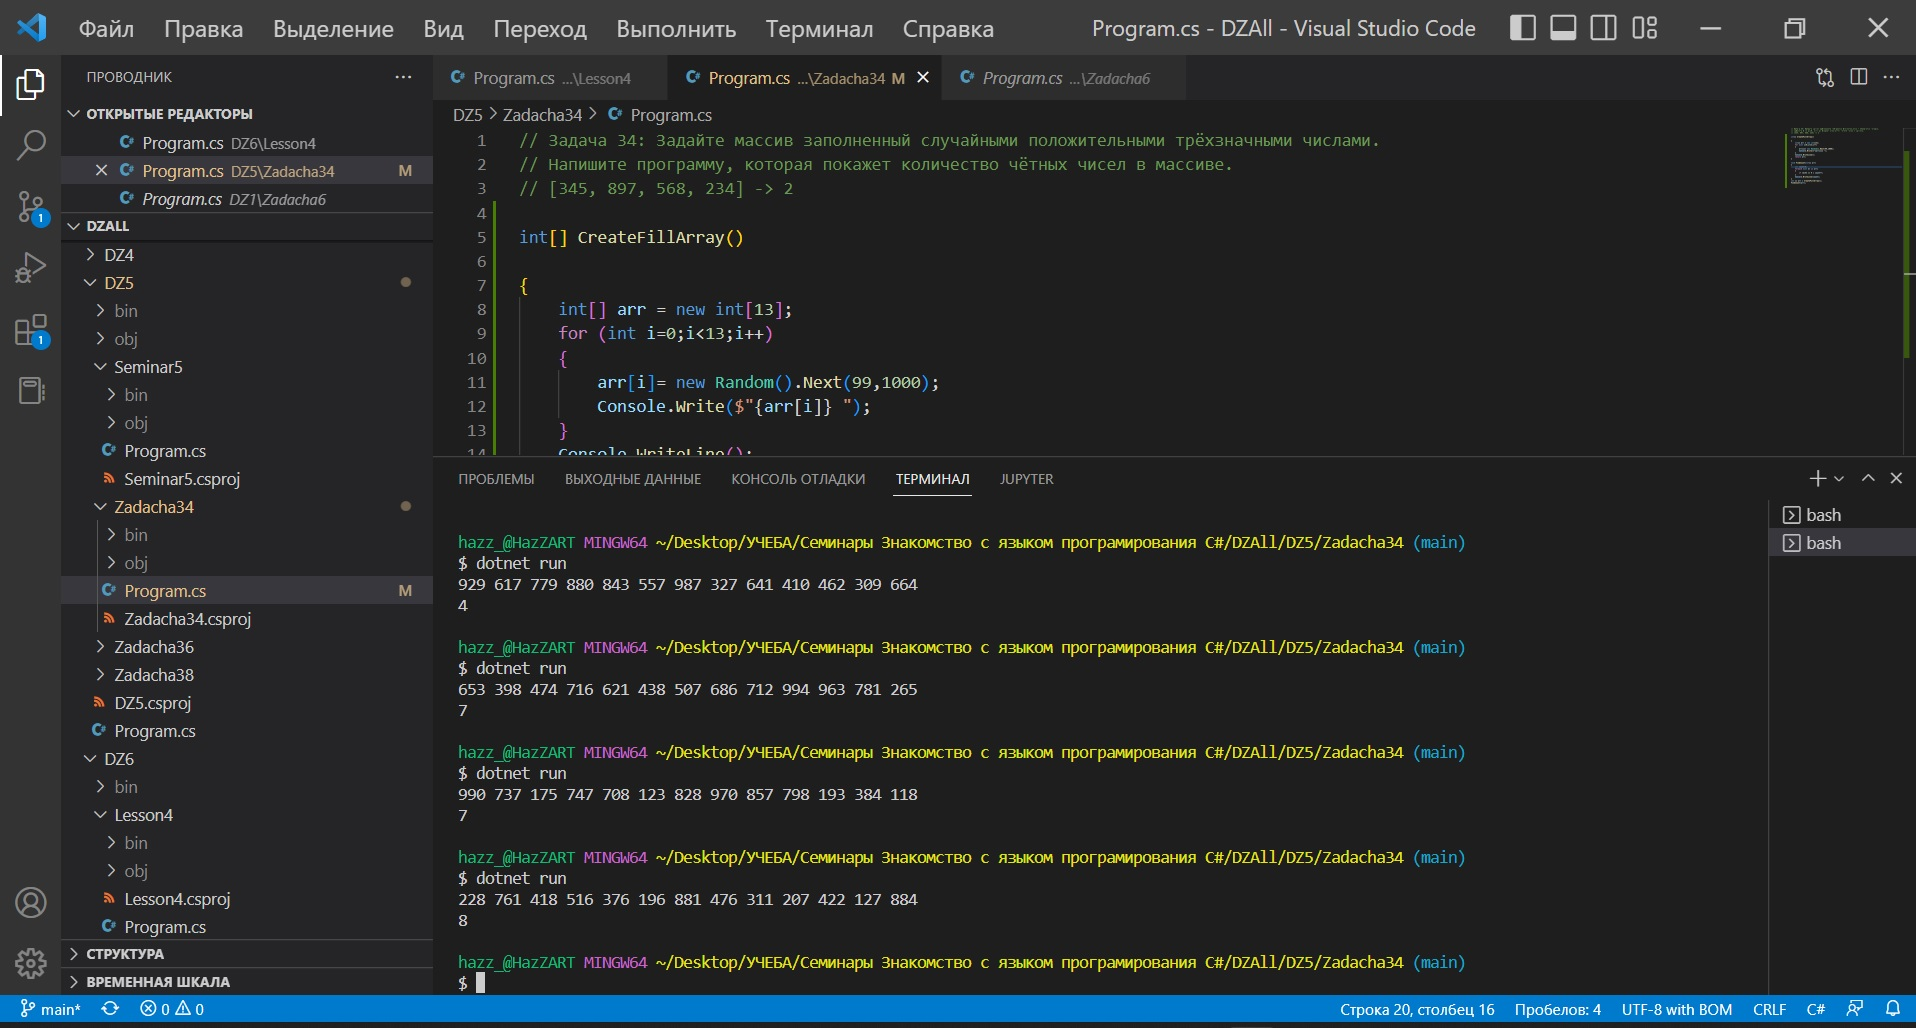
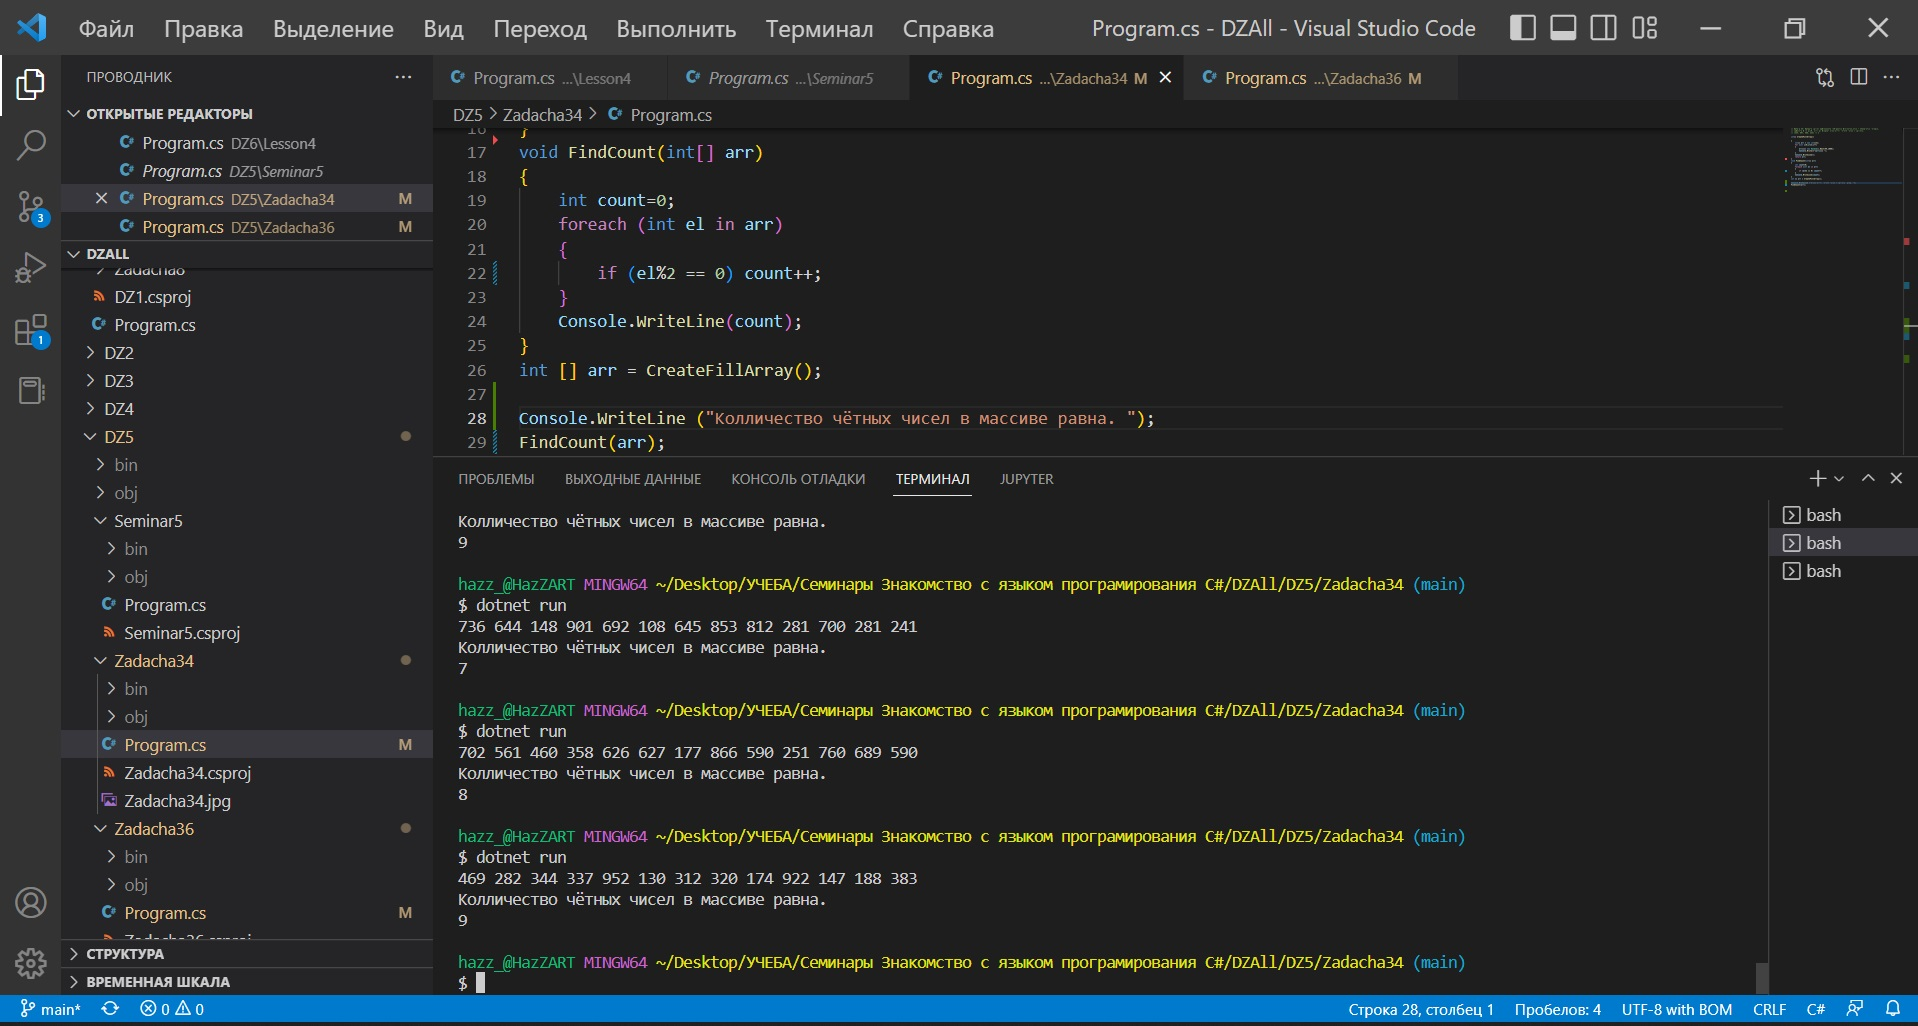
Write cod Zadacha 34

diff --git a/DZ5/Zadacha36/Program.cs b/DZ5/Zadacha36/Program.cs
@@ -3,3 +3,28 @@
 
 // [3, 7, 23, 12] -> 19
 // [-4, -6, 89, 6] -> 0
+
+int[] CreateFillArray()
+{
+    int[] arr = new int[13];
+    for (int i=0;i<13;i++) 
+    {
+        arr[i]= new Random().Next(-100000,100000);
+        Console.Write($"{arr[i]} ");
+    }
+    Console.WriteLine();
+    return arr;
+}
+void FindCount(int[] arr)
+{
+    int count=0;
+    foreach (int el in arr)
+    {
+        if (count%2 == 0 ) el = el+ el[count]; 
+        count++;
+    }
+    Console.WriteLine(count);
+}
+int [] arr = CreateFillArray();
+FindCount(arr); 
+

diff --git a/DZ5/Zadacha34/Program.cs b/DZ5/Zadacha34/Program.cs
@@ -14,16 +14,18 @@ int[] CreateFillArray()
     Console.WriteLine();
     return arr;
 }
-
 void FindCount(int[] arr)
 {
     int count=0;
     foreach (int el in arr)
     {
-        if (el%2 == 0 ) count++;
+        if (el%2 == 0) count++;
     }
     Console.WriteLine(count);
 }
 int [] arr = CreateFillArray();
-FindCount(arr); 
+
+Console.WriteLine ("Колличество чётных чисел в массиве равна. "); 
+FindCount(arr);
+
 
